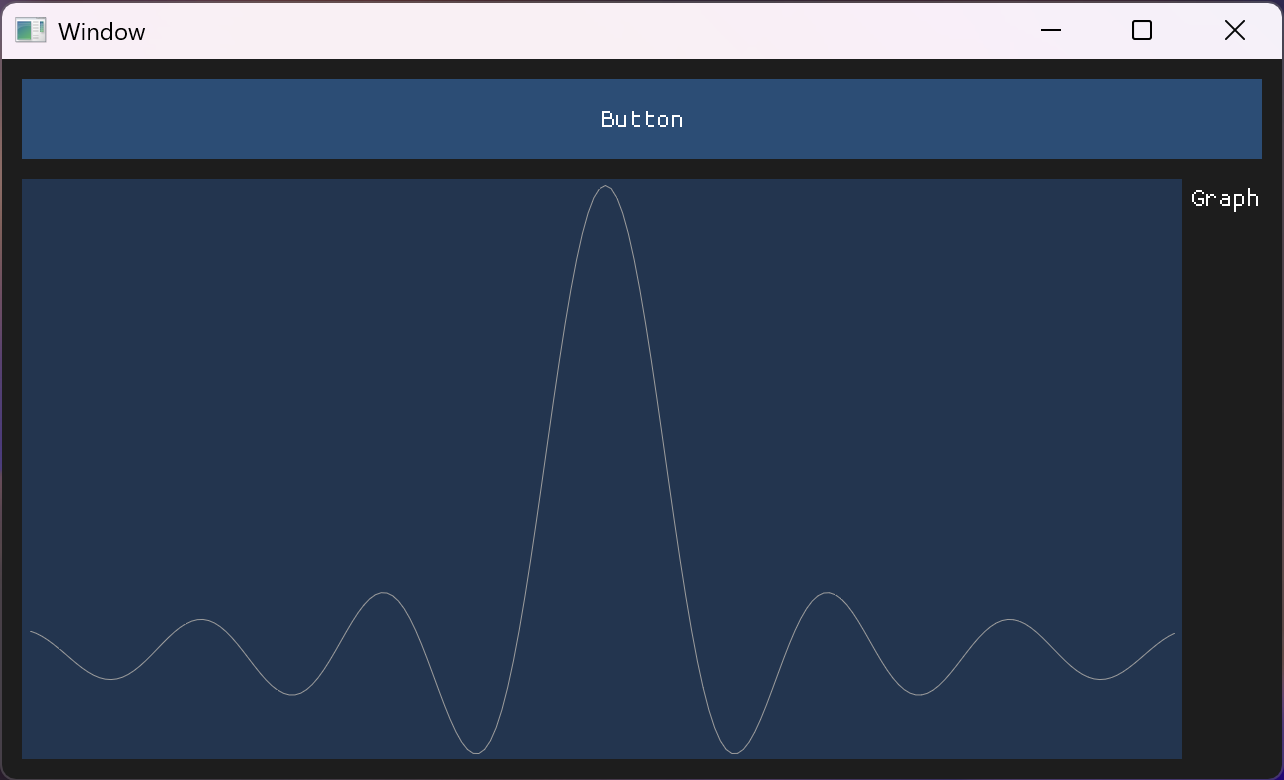
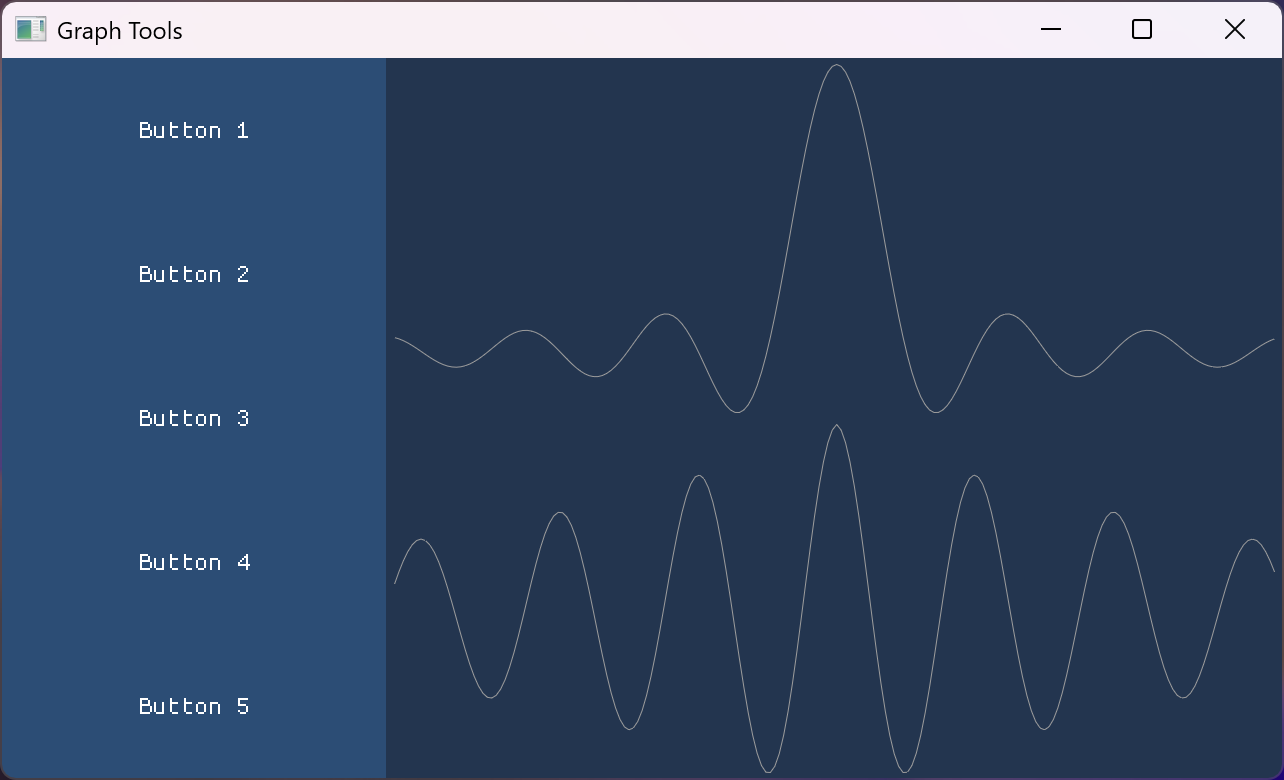
Update

diff --git a/include/panel.hpp b/include/panel.hpp
@@ -2,35 +2,45 @@
 
 #include "factory.hpp"
 
-#include <imgui.h>
-#include <imgui_impl_glfw.h>
-#include <imgui_impl_opengl3.h>
-
 #include <functional>
 #include <string>
-#include <vector>
 
-class PanelUnit : ObjectUnit {
+class IPanelUnit : public IObjectUnit {
 public:
-    PanelUnit(int width, int height, std::string title);
-    virtual ~PanelUnit() = default;
+    IPanelUnit(std::unique_ptr<IMeasureUnit> size, std::string title)
+        : m_size(std::move(size)), m_title(std::move(title)) {}
+
+    virtual ~IPanelUnit() = default;
 
     virtual void Render() = 0;
 
-    void SetPos(int x, int y) noexcept { m_x = x; m_y = y; }
-    void SetSize(int width, int height) noexcept { m_w = width; m_h = height; }
+    void SetSize(std::unique_ptr<IMeasureUnit> size) noexcept { m_size = std::move(size); }
+    void SetPos(std::unique_ptr<IMeasureUnit> pos) noexcept { m_pos = std::move(pos); }
 
 protected:
     void SetLayout() const;
 
-    int m_w, m_h;
-    int m_x, m_y;
+    std::unique_ptr<IMeasureUnit> m_size;
+    std::unique_ptr<IMeasureUnit> m_pos;
     std::string m_title;
 };
 
-class ButtonUnit final : public PanelUnit {
+class PanelUnit final : public IPanelUnit {
 public:
-    ButtonUnit(int width, int height, std::string title);
+    PanelUnit(std::unique_ptr<IMeasureUnit> size, std::string title)
+        : IPanelUnit(std::move(size), std::move(title)) {}
+
+    void Push(std::unique_ptr<IPanelUnit> unit);
+    void Render() override;
+
+private:
+    VectorUnique<IPanelUnit> m_units;
+};
+
+class ButtonUnit final : public IPanelUnit {
+public:
+    ButtonUnit(std::unique_ptr<IMeasureUnit> size, std::string title)
+        : IPanelUnit(std::move(size), std::move(title)) {}
 
     void Render() override;
 
@@ -40,13 +50,14 @@ private:
     std::function<void()> m_callback;
 };
 
-class GraphUnit final : public PanelUnit {
+class GraphUnit final : public IPanelUnit {
 public:
-    GraphUnit(int width, int height, std::string title);
+    GraphUnit(std::unique_ptr<IMeasureUnit> size, std::string title)
+        : IPanelUnit(std::move(size), std::move(title)) {}
 
     void Render() override;
 
-    void SetValues(std::vector<float>&& values) { m_values = std::move(values); }
+    void SetValues(std::vector<float>&& values) noexcept { m_values = std::move(values); }
 
 private:
     std::vector<float> m_values;

diff --git a/src/panel.cpp b/src/panel.cpp
@@ -1,28 +1,51 @@
 #include "panel.hpp"
 
-PanelUnit::PanelUnit(int width, int height, std::string title)
-    : m_w(width), m_h(height), m_x(0), m_y(0), m_title(std::move(title)) {}
-
-void PanelUnit::SetLayout() const {
-    ImGui::SetCursorPos(ImVec2(m_x, m_y));
+void IPanelUnit::SetLayout() const {
+    if (m_pos) {
+        std::pair<float, float> pos = m_pos->GetMeasure();
+        ImGui::SetCursorPos(ImVec2(pos.first, pos.second));
+    }
 }
 
-ButtonUnit::ButtonUnit(int width, int height, std::string title)
-    : PanelUnit(width, height, std::move(title)) {}
+void PanelUnit::Push(std::unique_ptr<IPanelUnit> unit) {
+    m_units.push_back(std::move(unit));
+}
+
+void PanelUnit::Render() {
+    auto [w, h] = m_size->GetMeasure();
+
+    if (m_pos) {
+        auto [x, y] = m_pos->GetMeasure();
+        ImGui::SetCursorPos(ImVec2(x, y));
+    }
+
+    ImGui::PushStyleVar(ImGuiStyleVar_ChildBorderSize, 0.0f);
+
+    ImGui::PushStyleVar(ImGuiStyleVar_ItemSpacing, ImVec2(0, 0));
+
+    ImGui::BeginChild(m_title.c_str(), ImVec2(w, h), false);
+
+    for (auto& it : m_units) {
+        it->Render();
+    }
+
+    ImGui::EndChild();
+
+    ImGui::PopStyleVar(2);
+}
 
 void ButtonUnit::Render() {
     SetLayout();
 
-    if (ImGui::Button(m_title.c_str(), ImVec2(m_w, m_h))) {
+    std::pair<float, float> size = m_size->GetMeasure();
+    if (ImGui::Button(m_title.c_str(), ImVec2(size.first, size.second))) {
         if (m_callback) { m_callback(); };
     }
 };
 
-GraphUnit::GraphUnit(int width, int height, std::string title)
-    : PanelUnit(width, height, std::move(title)) {}
-
 void GraphUnit::Render() {
     SetLayout();
 
-    ImGui::PlotLines(m_title.c_str(), m_values.data(), m_values.size(), 0, nullptr, FLT_MAX, FLT_MAX, ImVec2(m_w, m_h));
+    std::pair<float, float> size = m_size->GetMeasure();
+    ImGui::PlotLines(m_title.c_str(), m_values.data(), m_values.size(), 0, nullptr, FLT_MAX, FLT_MAX, ImVec2(size.first, size.second));
 }

diff --git a/include/utils.hpp b/include/utils.hpp
@@ -1,0 +1,55 @@
+#pragma once
+
+#include <imgui.h>
+#include <imgui_impl_glfw.h>
+#include <imgui_impl_opengl3.h>
+
+#include <utility>
+#include <memory>
+#include <vector>
+
+template <typename T>
+using VectorUnique = std::vector<std::unique_ptr<T>>;
+
+class IObjectUnit {
+public:
+    IObjectUnit() = default;
+    virtual ~IObjectUnit() = default;
+
+    virtual void Render() = 0;
+
+    IObjectUnit(const IObjectUnit&) = delete;
+    IObjectUnit& operator=(const IObjectUnit&) = delete;
+};
+
+class IMeasureUnit {
+public:
+    IMeasureUnit(float x, float y) noexcept : m_x(x), m_y(y) {}
+    virtual ~IMeasureUnit() = default;
+
+    virtual std::pair<float, float> GetMeasure() = 0;
+
+    IMeasureUnit(const IMeasureUnit&) = delete;
+    IMeasureUnit& operator=(const IMeasureUnit&) = delete;
+
+protected:
+    float m_x, m_y;
+};
+
+class MeasurePixelUnit final : public IMeasureUnit {
+public:
+    MeasurePixelUnit(float x, float y) noexcept
+        : IMeasureUnit(x, y) {}
+
+    std::pair<float, float> GetMeasure() override {
+        return { m_x, m_y };
+    }
+};
+
+class MeasurePercentUnit final : public IMeasureUnit {
+public:
+    MeasurePercentUnit(float x, float y) noexcept
+        : IMeasureUnit(x, y) {}
+
+    std::pair<float, float> GetMeasure() override;
+};

diff --git a/src/window.cpp b/src/window.cpp
@@ -2,8 +2,9 @@
 
 #include <stdexcept>
 
-WindowUnit::WindowUnit(int width, int height, const std::string& title) {
-    m_handle = glfwCreateWindow(width, height, title.c_str(), nullptr, nullptr);
+WindowUnit::WindowUnit(std::unique_ptr<IMeasureUnit> size, const std::string& title) {
+    std::pair<float, float> s = size->GetMeasure();
+    m_handle = glfwCreateWindow(s.first, s.second, title.c_str(), nullptr, nullptr);
     if (!m_handle) {
         throw (std::runtime_error("Failed to create GLFW window"));
     }
@@ -55,7 +56,11 @@ void WindowUnit::Render() {
     flags |= ImGuiWindowFlags_NoResize;
     flags |= ImGuiWindowFlags_NoMove;
 
+    ImGui::PushStyleVar(ImGuiStyleVar_WindowRounding, 0.0f);
     ImGui::PushStyleVar(ImGuiStyleVar_WindowBorderSize, 0.0f);
+
+    ImGui::PushStyleVar(ImGuiStyleVar_WindowPadding, ImVec2(0, 0));
+    ImGui::PushStyleVar(ImGuiStyleVar_ItemSpacing, ImVec2(0, 0));
 
     ImGui::Begin("GraphTools", nullptr, flags);
 
@@ -65,7 +70,7 @@ void WindowUnit::Render() {
 
     ImGui::End();
 
-    ImGui::PopStyleVar();
+    ImGui::PopStyleVar(4);
 
     EndFrame();
 }

diff --git a/include/factory.hpp b/include/factory.hpp
@@ -1,17 +1,21 @@
 #pragma once
 
-#include <memory>
+#include "utils.hpp"
+
 #include <type_traits>
 
-struct ObjectUnit {
-    virtual ~ObjectUnit() = default;
-};
-
-class UnitFactory final {
-public:
+namespace FactoryUnit {
     template <typename T, typename... Args>
-    requires (std::is_base_of_v<ObjectUnit, T> && !std::is_same_v<T, ObjectUnit> && !std::is_abstract_v<T>)
-    [[nodiscard]] static std::unique_ptr<T> Create(Args&&... args) {
+    requires (std::is_base_of_v<IObjectUnit, T> && !std::is_same_v<T, IObjectUnit> && !std::is_abstract_v<T>)
+    [[nodiscard]] std::unique_ptr<T> Create(Args&&... args) {
         return std::make_unique<T>(std::forward<Args>(args)...);
     }
-};
+
+    inline std::unique_ptr<MeasurePixelUnit> Pixels(float x, float y) {
+        return std::make_unique<MeasurePixelUnit>(x, y);
+    }
+
+    inline std::unique_ptr<MeasurePercentUnit> Percent(float x, float y) {
+        return std::make_unique<MeasurePercentUnit>(x, y);
+    }
+}

diff --git a/include/window.hpp b/include/window.hpp
@@ -5,12 +5,9 @@
 
 #include "panel.hpp"
 
-template <typename T>
-using VectorUnique = std::vector<std::unique_ptr<T>>;
-
-class WindowUnit final : ObjectUnit {
+class WindowUnit final : public IObjectUnit {
 public:
-    WindowUnit(int width, int height, const std::string& title);
+    WindowUnit(std::unique_ptr<IMeasureUnit> size, const std::string& title);
     ~WindowUnit();
 
     void Push(std::unique_ptr<PanelUnit> unit);
@@ -18,9 +15,6 @@ public:
 
     GLFWwindow* GetHandle() const noexcept { return m_handle; }
     ImGuiContext* GetContext() const noexcept { return m_context; }
-
-    WindowUnit(const WindowUnit&) = delete;
-    WindowUnit& operator=(const WindowUnit&) = delete;
 
 private:
     void NewFrame();

diff --git a/src/utils.cpp b/src/utils.cpp
@@ -1,0 +1,10 @@
+#include "utils.hpp"
+
+std::pair<float, float> MeasurePercentUnit::GetMeasure() {
+    ImVec2 size = ImGui::GetWindowContentRegionMax();
+
+    float x = size.x * (m_x / 100);
+    float y = size.y * (m_y / 100);
+
+    return { x, y };
+}

diff --git a/src/main.cpp b/src/main.cpp
@@ -1,5 +1,3 @@
-#include "window.hpp"
-
 int main() {
 
 }

diff --git a/README.md b/README.md
@@ -3,33 +3,38 @@
 ```cpp
 #include "window.hpp"
 
-#include <iostream>
+using namespace FactoryUnit;
 
 int main() {
-    /* Manager */
     auto manager = WindowManager::Create();
+    auto window = Create<WindowUnit>(Pixels(1280, 720), "Graph Tools");
 
-    /* Window */
-    auto window = UnitFactory::Create<WindowUnit>(1280, 720, "Window");
-
-    auto button = UnitFactory::Create<ButtonUnit>(1240, 80, "Button");
-    button->SetPos(20, 20);
-    button->SetCallback([] { std::cout << 1 << std::endl; });
-
-    std::vector<float> values;
-    for (float i = -10; i <= 10; i += 0.1) {
-        values.push_back(std::sin(2 * i) / i);
+    auto toolbar = Create<PanelUnit>(Percent(30, 100), "Toolbar");
+    for (int i = 1; i <= 5; ++i) {
+        toolbar->Push(Create<ButtonUnit>(Percent(100, 20), "Button " + std::to_string(i)));
     }
 
-    auto graph = UnitFactory::Create<GraphUnit>(1160, 580, "Graph");
-    graph->SetPos(20, 120);
-    graph->SetValues(std::move(values));
+    std::vector<float> v1, v2;
+    for (float i = -10.0f; i <= 10.0f; i += 0.1f) {
+        v1.push_back(std::abs(i) < 0.001f ? 2.0f : std::sin(2 * i) / i);
+        v2.push_back(std::exp(-0.1f * std::abs(i)) * std::cos(2.0f * i));
+    }
 
-    window->Push(std::move(button));
-    window->Push(std::move(graph));
+    auto panel = Create<PanelUnit>(Percent(70, 100), "Panel");
+    panel->SetPos(Percent(30, 0));
+
+    auto g1 = Create<GraphUnit>(Percent(100, 50), "Graph 1");
+    auto g2 = Create<GraphUnit>(Percent(100, 50), "Graph 2");
+
+    g1->SetValues(std::move(v1));
+    g2->SetValues(std::move(v2));
+    g2->SetPos(Percent(0, 50));
+
+    panel->Push(std::move(g1));
+    panel->Push(std::move(g2));
+    window->Push(std::move(toolbar));
+    window->Push(std::move(panel));
 
     manager->Push(std::move(window));
-
-    /* Run */
     manager->Run();
 }
